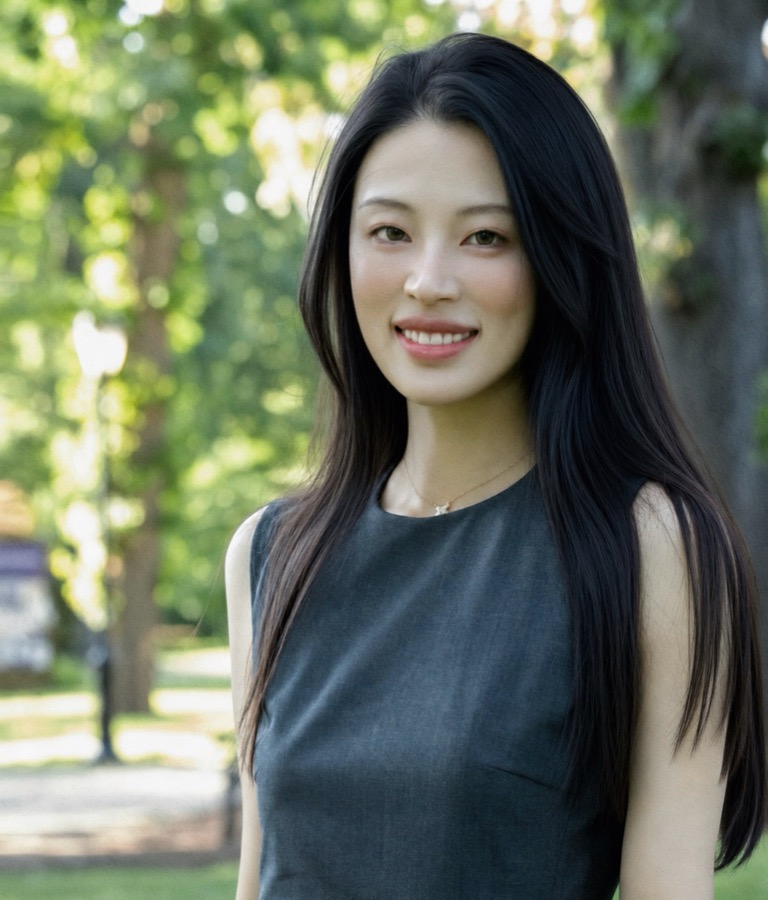
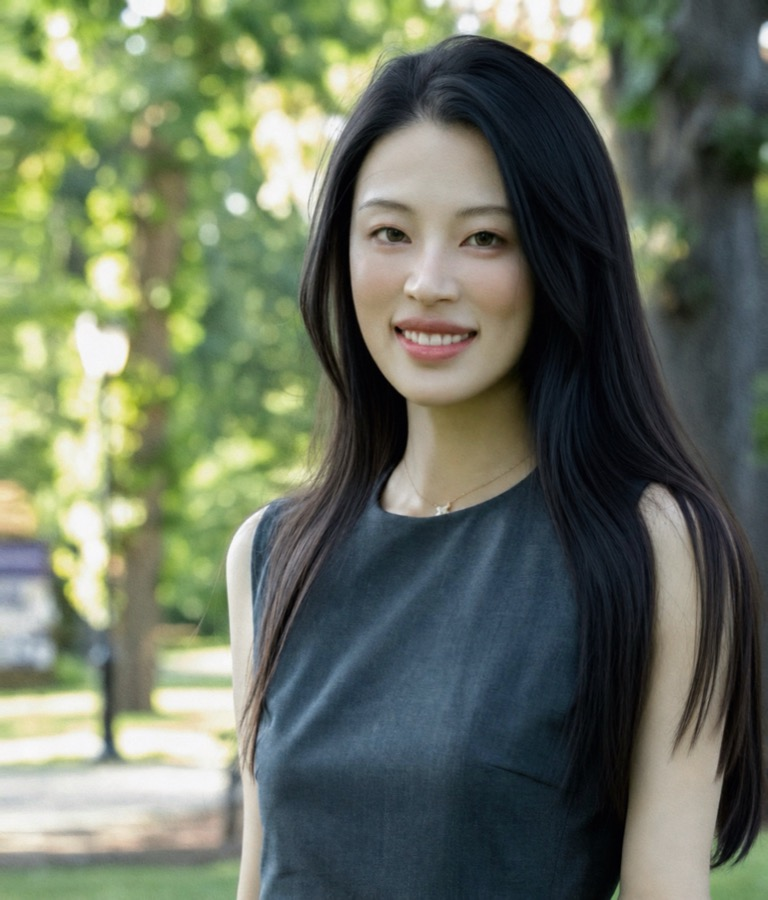
Home: update portrait photo

diff --git a/index.html b/index.html
@@ -99,7 +99,7 @@
 
       <div class="hero-portrait">
         <div class="frame" aria-label="Shinan Wang">
-          <img src="assets/portrait.jpg?v=10" alt="Shinan Wang">
+          <img src="assets/portrait.jpg?v=11" alt="Shinan Wang">
         </div>
       </div>
     </section>
